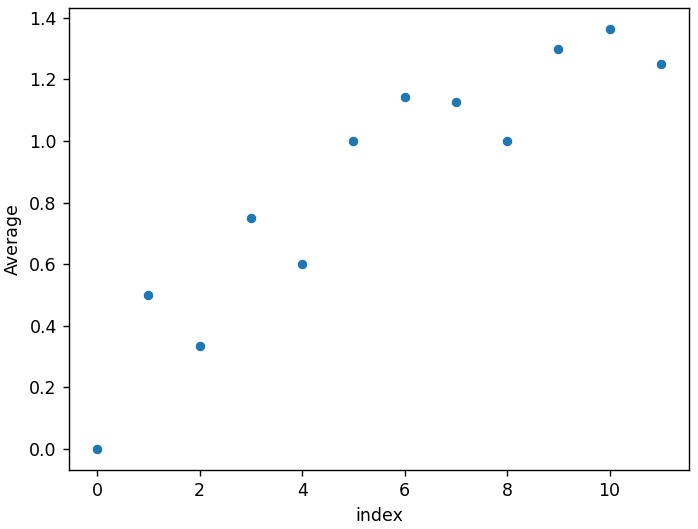
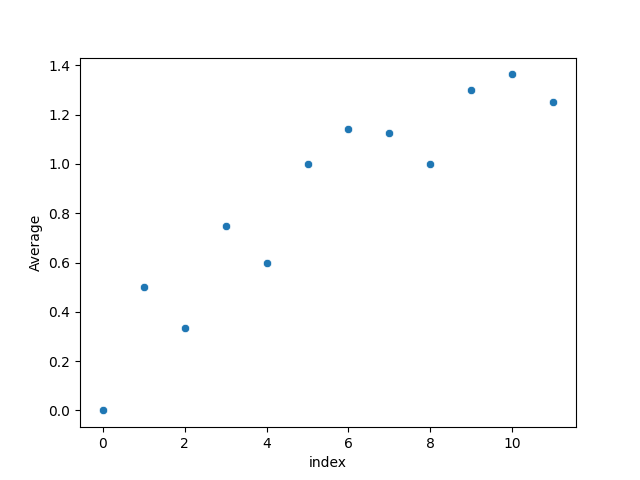
edit README.md

diff --git a/flattened_sierpinski_1.py b/flattened_sierpinski_1.py
@@ -39,7 +39,7 @@ def generate_flattened_sierpinski_1(n):
         i += 1
     return a
 
-print(generate_flattened_sierpinski_1(50))
+print(generate_flattened_sierpinski_1(100))
 
 # Scatter Plots
 n = 10
@@ -47,6 +47,7 @@ sequence = generate_flattened_sierpinski_1(n)
 df = pd.DataFrame(sequence, columns=["Number"])
 df['index'] = [i for i in range(len(sequence))]
 sns.scatterplot(x="index", y='Number', data=df)
+plt.savefig("images/10_1.png")
 plt.show()
 
 n = 100
@@ -54,6 +55,7 @@ sequence = generate_flattened_sierpinski_1(n)
 df = pd.DataFrame(sequence, columns=["Number"])
 df['index'] = [i for i in range(n)]
 sns.scatterplot(x="index", y='Number', data=df)
+plt.savefig("images/100_1.png")
 plt.show()
 
 n = 1000
@@ -61,6 +63,7 @@ sequence = generate_flattened_sierpinski_1(n)
 df = pd.DataFrame(sequence, columns=["Number"])
 df['index'] = [i for i in range(len(sequence))]
 sns.scatterplot(x="index", y='Number', data=df)
+plt.savefig("images/1000_1.png")
 plt.show()
 
 n = 10000
@@ -68,6 +71,7 @@ sequence = generate_flattened_sierpinski_1(n)
 df = pd.DataFrame(sequence, columns=["Number"])
 df['index'] = [i for i in range(len(sequence))]
 sns.scatterplot(x="index", y='Number', data=df)
+plt.savefig("images/10000_1.png")
 plt.show()
 
 n = 100000
@@ -75,6 +79,7 @@ sequence = generate_flattened_sierpinski_1(n)
 df = pd.DataFrame(sequence, columns=["Number"])
 df['index'] = [i for i in range(len(sequence))]
 sns.scatterplot(x="index", y='Number', data=df)
+plt.savefig("images/100000_1.png")
 plt.show()
 
 # Scatter plots of Averages
@@ -90,6 +95,7 @@ for i, s in enumerate(sequence):
 df_averages = pd.DataFrame(average_sequence, columns=["Average"])
 df_averages['index'] = [i for i in range(len(sequence))]
 sns.scatterplot(x="index", y="Average", data=df_averages)
+plt.savefig("images/average_10.png")
 plt.show()
 
 n = 100
@@ -104,6 +110,7 @@ for i, s in enumerate(sequence):
 df_averages = pd.DataFrame(average_sequence, columns=["Average"])
 df_averages['index'] = [i for i in range(len(sequence))]
 sns.scatterplot(x="index", y="Average", data=df_averages)
+plt.savefig("images/average_100.png")
 plt.show()
 
 n = 1000
@@ -118,6 +125,7 @@ for i, s in enumerate(sequence):
 df_averages = pd.DataFrame(average_sequence, columns=["Average"])
 df_averages['index'] = [i for i in range(len(sequence))]
 sns.scatterplot(x="index", y="Average", data=df_averages)
+plt.savefig("images/average_1000.png")
 plt.show()
 
 n = 10000
@@ -132,6 +140,7 @@ for i, s in enumerate(sequence):
 df_averages = pd.DataFrame(average_sequence, columns=["Average"])
 df_averages['index'] = [i for i in range(len(sequence))]
 sns.scatterplot(x="index", y="Average", data=df_averages)
+plt.savefig("images/average_10000.png")
 plt.show()
 
 n = 100000
@@ -146,4 +155,5 @@ for i, s in enumerate(sequence):
 df_averages = pd.DataFrame(average_sequence, columns=["Average"])
 df_averages['index'] = [i for i in range(len(sequence))]
 sns.scatterplot(x="index", y="Average", data=df_averages)
+plt.savefig("images/average_100000.png")
 plt.show()

diff --git a/flattened_sierpinski_2.py b/flattened_sierpinski_2.py
@@ -43,7 +43,7 @@ def generate_flattened_sierpinski_2(n):
         i += 1
     return a
 
-print(generate_flattened_sierpinski_2(50))
+print(generate_flattened_sierpinski_2(100))
 
 n = 10
 sequence = generate_flattened_sierpinski_2(n)

diff --git a/README.md b/README.md
@@ -1,34 +1,34 @@
 # flattened-sierpinski
 The scripts `flattened-sierpinski_1.py` and `flattened-sierpinski_2.py` generate fractal sequences that I discovered while trying to implement [Sigrist's sequence](https://www.youtube.com/watch?v=j0o-pMIR8uk) in Python. I call it the flattened Sierpinski sequence because it looks lke a bunch of flattened Sierpinski triangles. 
 
-output 1: `[0, 1, 0, 2, 0, 3, 2, 1, 0, 4, 2, 0, 5, 4, 1, 0, 6, 5, 4, 0, 7, 6, 5, 4, 3, 2, 1, 0, 8, 6, 4, 2, 0, 9, 8, 5, 4, 1, 0, 10, 9, 8, 4, 0, 11, 10, 9, 8, 3, 2, 1, 0]`
+output 1: `[0, 1, 0, 2, 0, 3, 2, 1, 0, 4, 2, 0, 5, 4, 1, 0, 6, 5, 4, 0, 7, 6, 5, 4, 3, 2, 1, 0, 8, 6, 4, 2, 0, 9, 8, 5, 4, 1, 0, 10, 9, 8, 4, 0, 11, 10, 9, 8, 3, 2, 1, 0, 12, 11, 10, 9, 8, 2, 0, 13, 12, 11, 10, 9, 8, 1, 0, 14, 13, 12, 11, 10, 9, 8, 0, 15, 14, 13, 12, 11, 10, 9, 8, 7, 6, 5, 4, 3, 2, 1, 0, 16, 14, 12, 10, 8, 6, 4, 2, 0]`
 
-output 2: `[0, 1, 0, 0, 3, 2, 1, 0, 2, 0, 1, 0, 0, 7, 6, 5, 4, 3, 2, 1, 0, 6, 4, 2, 0, 5, 4, 1, 0, 4, 0, 3, 2, 1, 0, 2, 0, 1, 0, 0, 15, 14, 13, 12, 11, 10, 9, 8, 7, 6, 5, 4, 3, 2, 1, 0]`
+output 2: `[0, 1, 0, 0, 3, 2, 1, 0, 2, 0, 1, 0, 0, 7, 6, 5, 4, 3, 2, 1, 0, 6, 4, 2, 0, 5, 4, 1, 0, 4, 0, 3, 2, 1, 0, 2, 0, 1, 0, 0, 15, 14, 13, 12, 11, 10, 9, 8, 7, 6, 5, 4, 3, 2, 1, 0, 14, 12, 10, 8, 6, 4, 2, 0, 13, 12, 9, 8, 5, 4, 1, 0, 12, 8, 4, 0, 11, 10, 9, 8, 3, 2, 1, 0, 10, 8, 2, 0, 9, 8, 1, 0, 8, 0, 7, 6, 5, 4, 3, 2, 1, 0]`
 
 # Plotting `flattened-sierpinski-1` with Seaborn
 ## Basic Scatterplots
 Scatterplot of 10 numbers: \
-![10 numbers](images/10.png) \
+![10 numbers](images/10_1.png) \
 Scatterplot of 100 numbers: \
-![100 numbers](images/100.png) \
+![100 numbers](images/100_1.png) \
 Scatterplot of 1000 numbers: \
-![1000 numbers](images/1000.png)
+![1000 numbers](images/1000_1.png)
 Scatterplot of 10,000 numbers: \
-![10000 numbers](images/10000.png) \
+![10000 numbers](images/10000_1.png) \
 Scatterplot of 100,000 numbers: \
-![100,000 numbers](images/100000.png)
+![100,000 numbers](images/100000_1.png)
 
 ## Plotting the Average as $n \to \infty$
 Scatterplot of the first 10 averages: \
-![10 averages](images/average_10.png) \
+![10 averages](images/average_10_1.png) \
 Scatterplot of the first 100 averages: \
-![100 averages](images/average_100.png) \ 
+![100 averages](images/average_100_1.png) \ 
 Scatterplot of the first 1,000 averages: \
-![1000 averages](images/average_1000.png) \
+![1000 averages](images/average_1000_1.png) \
 Scatterplot of the first 10,000 averages: \
-![10,000 averages](images/average_10000.png) \
+![10,000 averages](images/average_10000_1.png) \
 Scatterplot of the first 100,000 averages: \
-![100,000 averages](images/average_100000.png)
+![100,000 averages](images/average_100000_1.png)
 
 # Plotting `flattened-sierpinski-2` with Seaborn
 ## Basic Scatterplots
